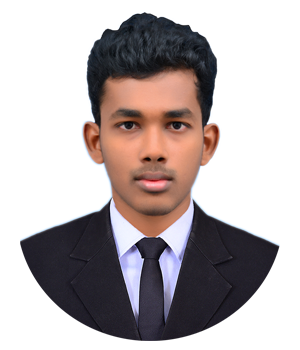
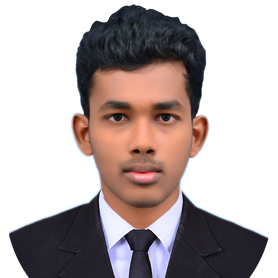
Added mobile view bg changes

diff --git a/src/components/Main.jsx b/src/components/Main.jsx
@@ -3,6 +3,7 @@ import { motion } from 'framer-motion';
 import { FaTwitter, FaLinkedinIn, FaGithub, FaHackerrank, FaStackOverflow } from 'react-icons/fa';
 import { SiGmail } from 'react-icons/si';
 import { IoLocationOutline } from 'react-icons/io5';
+import { SiTryhackme } from 'react-icons/si';
 import { BsArrowUpCircleFill } from 'react-icons/bs';
 
 const Main = () => {
@@ -45,7 +46,7 @@ const Main = () => {
                             transition={{ duration: 1 }}
                         >
                             <img src="/images/profile-pic.png"
-                                alt="Profile Picture" className='img-fluid h-100'
+                                alt="Profile Picture" className='img-fluid rounded-circle h-100'
                             />
                         </motion.div>
                     </div>
@@ -57,7 +58,7 @@ const Main = () => {
                             Software Engineering Undergraduate
                         </h2>
                         <h6 className='mt-2'>
-                            Developer | CTF Player
+                            Cybersecurity Enthusiast | Software Developer
                         </h6>
                         <ul className="list-group list-group-horizontal mt-2 mb-4">
                             <li className="list-group-item ps-3 pe-3">
@@ -73,6 +74,11 @@ const Main = () => {
                             <li className="list-group-item ps-3 pe-3">
                                 <a href="https://github.com/santhossunthar" target='_blank'>
                                     <FaGithub size={25} />
+                                </a>
+                            </li>
+                            <li className="list-group-item ps-3 pe-3">
+                                <a href="https://tryhackme.com/p/santhos" target='_blank'>
+                                    <SiTryhackme size={25} />
                                 </a>
                             </li>
                             <li className="list-group-item ps-3 pe-3">

diff --git a/src/assets/styles/custom.scss b/src/assets/styles/custom.scss
@@ -110,12 +110,20 @@ li {
     border-bottom-right-radius: 20rem;
 
     @include x-medium {
-        background-color: white;
+        background-color: $primary;
         border-radius: 0;
     }
 }
 
 .profile-img {
+    object-fit: cover;
+    .rounded-circle {
+
+        background-color: white;
+        object-fit: cover;
+        border: none;
+    }
+
     @include medium {
         justify-content: end !important;
     }
@@ -123,7 +131,7 @@ li {
 
 .info-col {
     @include x-medium {
-        background-color: white !important;
+        background-color: $primary !important;
     }
 }
 
@@ -134,8 +142,8 @@ li {
 
     .display-6 {
         color: white;
+
         @include x-medium {
-            color: $primary;
             text-align: center;
             font-size: 20pt;
         }
@@ -145,7 +153,6 @@ li {
         color: white;
 
         @include x-medium {
-            color: $primary;
             text-align: center;
             font-size: 12pt;
         }
